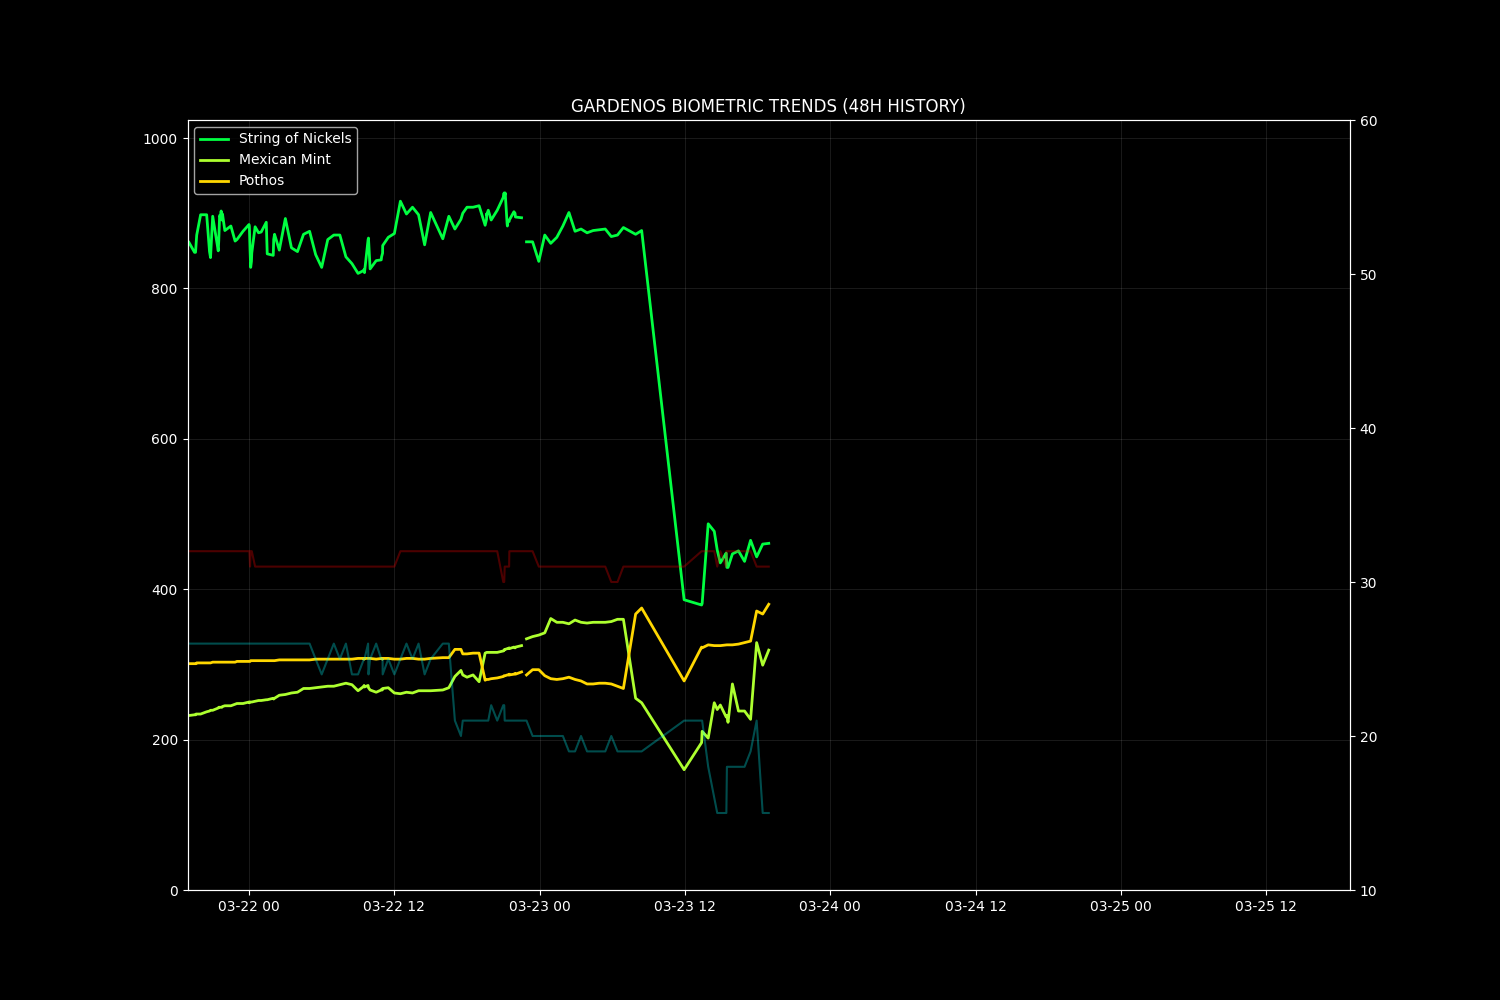
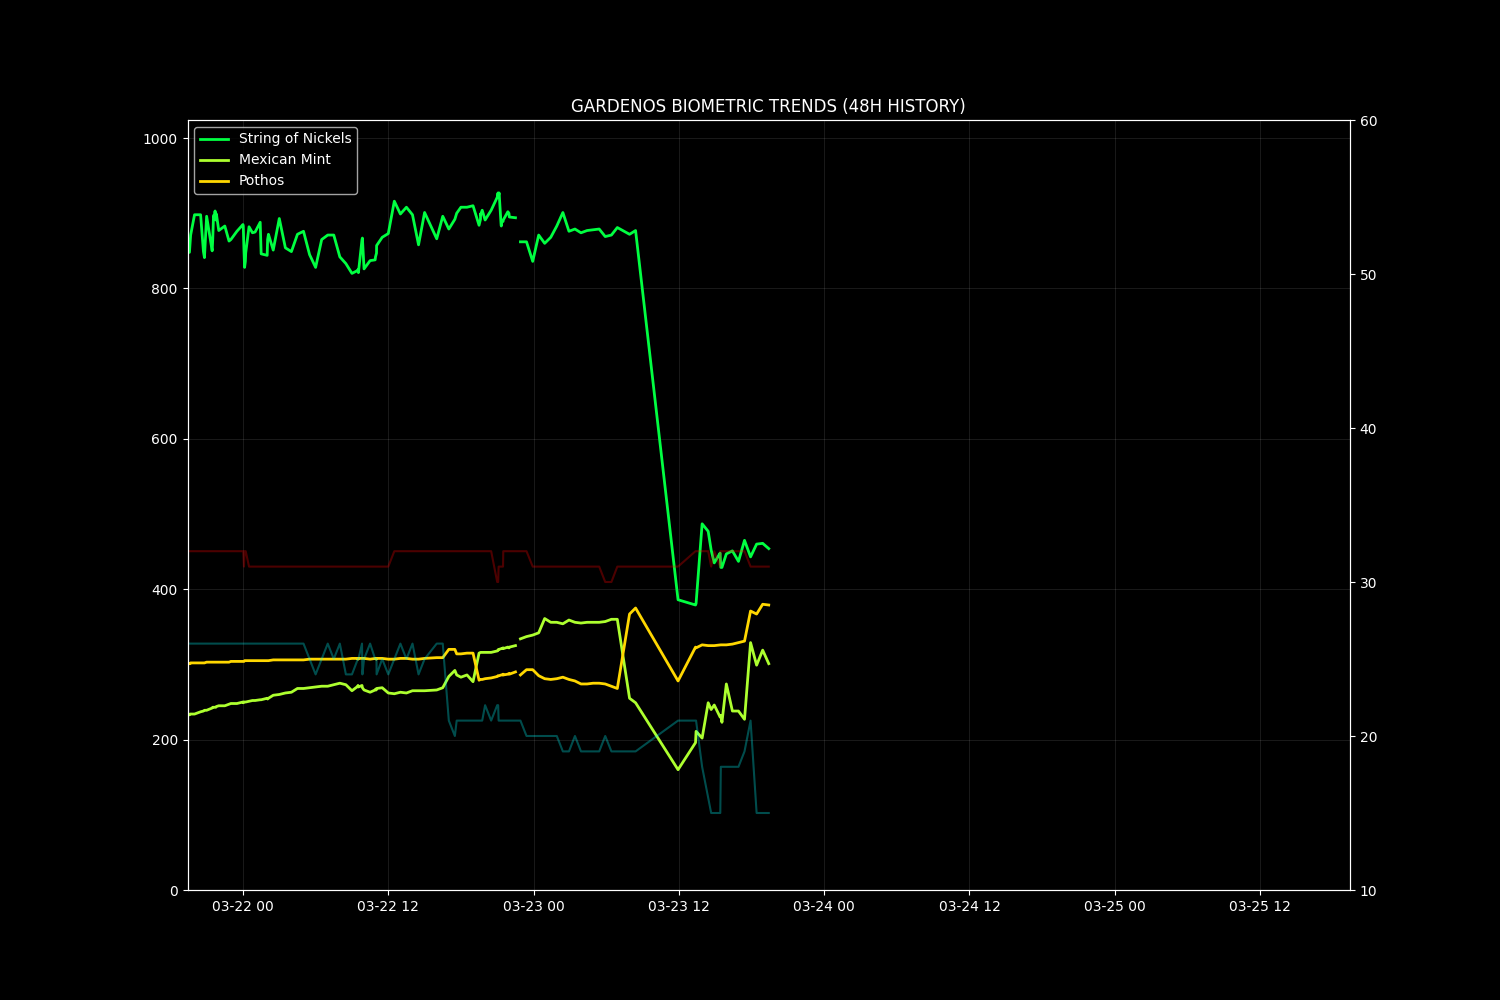
Warden Cycle: 2026-03-23 19:25:35

diff --git a/docs/data/observer_context.md b/docs/data/observer_context.md
@@ -1,21 +1,21 @@
 # 📝 Garden Observer Context
-**Generated:** 2026-03-23 17:58:01
+**Generated:** 2026-03-23 18:58:01
 
 ## 1. 🌡 Recent Telemetry (Last 12 Readings)
 ```csv
 timestamp,temp,hum,light,p1,p2,p3
-2026-03-23 16:55:33,32.0,18.0,838,437.0,238.0,329.0
-2026-03-23 17:25:29,32.0,19.0,853,465.0,227.0,331.0
 2026-03-23 17:55:28,31.0,21.0,530,443.0,329.0,371.0
+2026-03-23 18:25:28,31.0,15.0,844,460.0,299.0,367.0
+2026-03-23 18:55:28,31.0,15.0,882,461.0,319.0,380.0
 
 ```
 
 ## 2. 📊 Computed Metrics (Last 12 Calculations)
 ```csv
 timestamp,vpd,p1_pct,p1_slope,p2_pct,p2_slope,p3_pct,p3_slope,p4_pct,p4_slope,p5_pct,p5_slope,p6_pct,p6_slope,p1_is_dry,p2_is_dry,p3_is_dry
-2026-03-23 16:55:33,3.899,89.0,,85.8,,98.3,,,,,,,,False,False,False
-2026-03-23 17:25:29,3.851,80.4,,90.6,,97.7,,,,,,,,False,False,False
 2026-03-23 17:55:28,3.549,87.1,,46.8,,86.3,,,,,,,,False,False,False
+2026-03-23 18:25:28,3.819,81.9,,59.7,,87.5,,,,,,,,False,False,False
+2026-03-23 18:55:28,3.819,81.6,,51.1,,83.8,,,,,,,,False,False,False
 
 ```
 
@@ -128,6 +128,34 @@ Visual assessment supersedes sensor data per protocol. All four plants (p1-p4) s
 - Continue standard monitoring schedule.
 - Observe for any changes in leaf orientation or turgidity in next cycle.
 - Consider light misting if humidity remains low despite forecast improvement.
+
+---
+
+## 2026-03-23 17:58
+**Visual Assessment**: Based on latest.jpg analysis (visual data prioritized per protocol), all plants maintain healthy appearance with no visible stress indicators. Environmental conditions show continued warming with low humidity, but forecast mist conditions provide optimism for improved moisture levels.
+
+**Plant-by-Plant Analysis (Visual Priority)**:
+- **p1 (String of Nickels)**: Continues to show plump, turgid leaves with no wilting or discoloration. Growth appears stable.
+- **p2 (Mexican Mint)**: Maintains vibrant green foliage with normal leaf expansion. No drooping or stress visible despite sensor showing increased variability.
+- **p3 (Pothos)**: Exhibits strong phototropic growth with healthy, uniform leaf coloration. No signs of spotting, yellowing, or wilting.
+- **p4 (Silver Guest Alpha)**: Foliage retains characteristic silver patches and compact growth habit. Appearance remains consistent with healthy specimen.
+
+**Telemetry Context (17:58:01)**:
+- p1: 80.4-89.0% (wet) - adequate moisture levels (some variability observed)
+- p2/p4: 46.8-90.6% (wet) - adequate to ample moisture (increased variability, approaching mid-range)
+- p3: 86.3-98.3% (very wet) - excellent moisture levels
+- Environmental: 31.0-32.0°C, 18.0-21.0% humidity, 530-853 light - warm with low humidity
+- Weather: Mist forecast with 86% humidity, scattered/few clouds - promising for moisture improvement
+- VPD: 3.549-3.899 kPa
+
+**Plant Condition Assessment**:
+Visual assessment supersedes sensor data per protocol. All plants (p1-p4) continue to display healthy turgidity, normal coloration, and no visible stress indicators despite ongoing low humidity conditions (18-21%). The increasing variability in p2/p4 sensor readings warrants attention but visual confirmation of health takes precedence. Forecast mist conditions with 86% humidity should significantly improve the growing environment.
+
+**Recommended Action**:
+- No immediate intervention required based on current visual health.
+- Continue standard monitoring schedule.
+- Prepare for light misting if humidity remains low in next cycle despite forecast improvement.
+- Monitor p2/p4 closely for any visual changes that might correlate with sensor variability.
 
 ## 5. ℹ Note to Observer
 - **Visuals supersede sensors**: Cross-reference CSV data with `docs/media/latest.jpg`.
